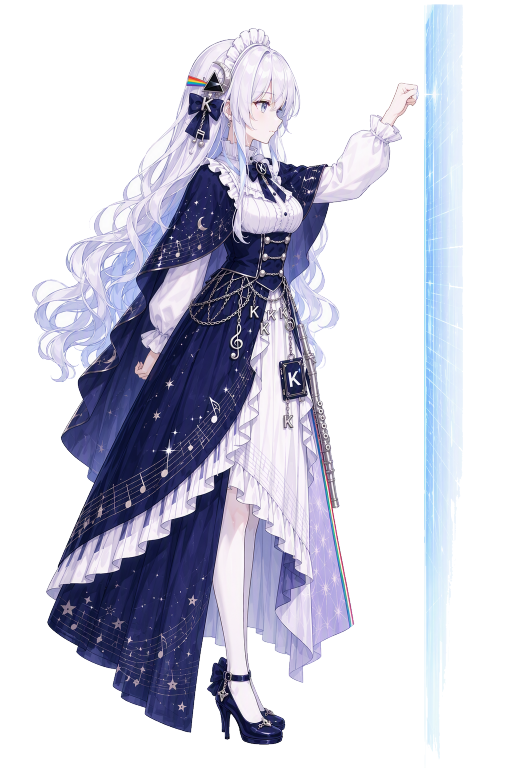
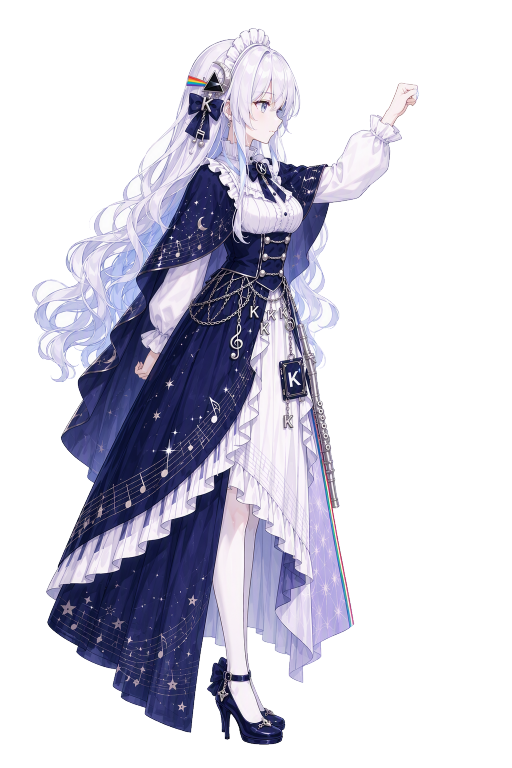
feat: 敲玻璃重做——人物与被敲玻璃分离，玻璃改独立 overlay 层
- 素材：ready.png 抹掉右侧粘着的玻璃条只留人物本体（tools/cutout_knock.js）；
  hit.png 删除（爆点与拳头粘连无法净分离，叩击改程序化表现）
- 玻璃层：#fx 独立 SVG 竖窗（窗框+半透玻璃+斜高光），叠在立绘之上、人物在玻璃后面敲；
  叩击瞬间敲击点闪光+两圈涟漪+拟声词+玻璃轻震，与 rap 相位对齐
- 收尾：enter() 统一收口，离开 knock 状态链玻璃 0.4s 淡出移除无残留
- 站位：SIDE_HALF_W 97→108（人物本体拳尖对齐窗沿）
- tools：knock_shot.js 截图 harness（左右两侧全程 9 帧验证），
  fly_shot_preload 支持 SHOT_POS 覆盖初始位置

Changed region(s): [[0.8125, 0.0, 0.9062, 0.9688]]

diff --git a/src/renderer.js b/src/renderer.js
@@ -90,11 +90,10 @@ new Image().src = SIDE_SRC;
 new Image().src = FLUTE_SRC;
 new Image().src = NOTE_SRC;
 
-// 敲门求关注真图序列：备敲（蓄力）和叩上去（咚！！爆星）。帧图朝右 = 敲左边沿；敲右边沿用 facing=dir 镜像
+// 敲门求关注：人物本体侧视图（拳头举起备敲），被敲的玻璃是独立 overlay 层（见下面 knockGlass），
+// 不再把玻璃/爆点抠进人物图。图朝右 = 敲左边沿；敲右边沿用 facing=dir 镜像
 const KNOCK_READY_SRC = '../assets/knock/ready.png';
-const KNOCK_HIT_SRC = '../assets/knock/hit.png';
 new Image().src = KNOCK_READY_SRC;
-new Image().src = KNOCK_HIT_SRC;
 
 // 指人发火：叉腰指你骂骂咧咧（正面图）
 const POINT_SRC = '../assets/point.png';
@@ -307,6 +306,8 @@ function enter(next, dur = 0) {
   if (!String(next).startsWith('desk') && !String(next).startsWith('work') && document.getElementById('desk')) resetDesk();
   // 攀爬安全绳只在 climbup 期间存在：到顶/爬不动/被拖走/菜单切动作等任何离开路径都收绳
   if (next !== 'climbup' && climb && climb.rope) { climb.rope = false; window.pet.ropeEnd(); }
+  // 敲门的玻璃层只在 knock 状态链内存在：敲完/被打断/切动作等任何离开路径都淡出收掉
+  if (!KNOCK_GLASS_STATES.has(next)) hideKnockGlass();
 }
 
 function say(text, ms = 1800) {
@@ -948,9 +949,74 @@ async function doWallBang() {
 
 // ---------- 敲门求关注 ----------
 // 跑到活跃窗口的侧边，侧身对着边沿「棒！棒！棒！」敲门，喊你理理我嘛
-// 侧身图 493x1298，显示高 512 → 显示半宽约 97px；身体在窗口内居中，左右沿 = 窗心∓97
-const SIDE_HALF_W = 97;
+// 人物图 512x768 只抠人物本体（tools/cutout_knock.js 抹掉了原图右侧粘着的玻璃条），
+// 显示高 512 → 显示宽 341；拳头右沿在图内 x≈418 → fx 坐标 278，即窗心 +108
+const SIDE_HALF_W = 108;
 let knock = null;
+
+// 被敲的玻璃：独立 SVG 层画在 #fx 里（叠在立绘之上，人物在玻璃后面敲）。
+// 竖窗立在身体贴沿一侧，敲一下：敲击点闪光 + 涟漪圈 + 玻璃轻震，节奏与 rap 相位对齐；
+// 动作结束（离开 knock 状态链）整体淡出移除，无残留
+const KNOCK_GLASS_STATES = new Set(['knockin', 'knockgo', 'knock', 'knockdone']);
+const GLASS_TOP = 100, GLASS_BOT = 616;          // 玻璃竖向范围（fx 坐标）
+const GLASS_X0 = 272, GLASS_X1 = 338;            // 右置版横向范围（左置镜像）
+const KNOCK_POINT = { x: 276, y: 188 };          // 敲击点（右置版，左置取 340-x）
+let knockGlass = null;                           // { g, inner, dir, shakeT }
+
+function knockGlassBaseTf(dir) {
+  return dir === 1 ? '' : 'translate(340,0) scale(-1,1)';
+}
+
+function showKnockGlass(dir) {
+  hideKnockGlass(true);
+  const g = fxRaw('g', { id: 'knockGlass' });
+  g.setAttribute('transform', knockGlassBaseTf(dir));
+  g.style.opacity = 0;
+  g.style.transition = 'opacity .3s ease';
+  const inner = fxRaw('g', {}, g); // 震动层：与镜像 transform 分离，抖动不破坏镜像
+  // 窗框 + 玻璃面（半透蓝，能透出后面的人）
+  fxRaw('rect', {
+    x: GLASS_X0, y: GLASS_TOP, width: GLASS_X1 - GLASS_X0, height: GLASS_BOT - GLASS_TOP,
+    rx: 8, fill: 'rgba(238,243,252,0.92)', stroke: '#b9c4da', 'stroke-width': 2,
+  }, inner);
+  fxRaw('rect', {
+    x: GLASS_X0 + 7, y: GLASS_TOP + 7, width: GLASS_X1 - GLASS_X0 - 14, height: GLASS_BOT - GLASS_TOP - 14,
+    rx: 4, fill: 'rgba(158,198,244,0.38)', stroke: 'rgba(255,255,255,0.7)', 'stroke-width': 1.5,
+  }, inner);
+  // 两道斜高光，玻璃质感
+  fxRaw('polygon', {
+    points: `${GLASS_X0 + 12},${GLASS_BOT - 20} ${GLASS_X0 + 30},${GLASS_TOP + 14} ${GLASS_X0 + 40},${GLASS_TOP + 14} ${GLASS_X0 + 22},${GLASS_BOT - 20}`,
+    fill: 'rgba(255,255,255,0.22)',
+  }, inner);
+  fxRaw('polygon', {
+    points: `${GLASS_X0 + 34},${GLASS_BOT - 20} ${GLASS_X0 + 52},${GLASS_TOP + 14} ${GLASS_X0 + 56},${GLASS_TOP + 14} ${GLASS_X0 + 38},${GLASS_BOT - 20}`,
+    fill: 'rgba(255,255,255,0.12)',
+  }, inner);
+  knockGlass = { g, inner, dir, shakeT: 0 };
+  requestAnimationFrame(() => { g.style.opacity = 1; });
+}
+
+// 叩上去的瞬间：敲击点闪光 + 两圈涟漪 + 拟声词 + 玻璃轻震（由 knock tick 驱动 shakeT 衰减）
+function fxKnockImpact() {
+  if (!knockGlass) return;
+  const x = knockGlass.dir === 1 ? KNOCK_POINT.x : LOGIC_W - KNOCK_POINT.x;
+  const y = KNOCK_POINT.y;
+  fxBurst(x, y, 10, 6, 26);
+  fxEl('circle', { cx: x, cy: y, r: 12, fill: 'none', stroke: '#fff', 'stroke-width': 3 }, 'fx-pop');
+  setTimeout(() => fxEl('circle', { cx: x, cy: y, r: 17, fill: 'none', stroke: '#cfe4ff', 'stroke-width': 2 }, 'fx-pop'), 90);
+  fxText(pick(['咚！', '咚咚！', '哐！']), x + knockGlass.dir * rand(24, 40), y - rand(26, 44), 28);
+  knockGlass.shakeT = 0.28;
+}
+
+function hideKnockGlass(immediate = false) {
+  if (!knockGlass) return;
+  const { g } = knockGlass;
+  knockGlass = null;
+  if (immediate) { g.remove(); return; }
+  g.style.transition = 'opacity .4s ease';
+  g.style.opacity = 0;
+  setTimeout(() => g.remove(), 420); // 只移除这一个旧 group，不影响之后新建的
+}
 
 async function doKnock() {
   const st = await window.pet.getStage();
@@ -958,8 +1024,8 @@ async function doKnock() {
   const aw = await window.pet.activeWindow();
   let tx, dir;
   if (aw) {
-    // 贴的是「身体边缘」不是窗口框：侧身图显示半宽约 97px，居中在窗口里，
-    // 身体左沿 = 窗心-97，右沿 = 窗心+97；让贴墙一侧的身体边和窗口边重合（再多吃 4px 像真贴上）
+    // 贴的是「身体边缘」不是窗口框：人物图显示半宽（到拳尖）约 108px，居中在窗口里，
+    // 身体左沿 = 窗心-108，右沿 = 窗心+108；让贴墙一侧的身体边和窗口边重合（再多吃 4px 像真贴上）
     const cx = winW() / 2;
     const leftTx = aw.x - (cx + SIDE_HALF_W * sizeK) + 4;          // 敲窗口左沿：她站左边，身体右边贴上
     const rightTx = aw.x + aw.w - (cx - SIDE_HALF_W * sizeK) - 4;  // 敲窗口右沿：她站右边，身体左边贴上
@@ -3212,9 +3278,11 @@ function frame(now) {
         window.pet.moveBy(dx, dy);
         knock.px = knock.tx; knock.py = knock.ty;
         knock.phase = 'aim'; knock.phaseT = 0;
-        // 到位：换上备敲真图（朝右 = 敲左边沿；右边沿镜像），朝向 = 敲的方向
+        // 到位：换上备敲真图（朝右 = 敲左边沿；右边沿镜像），朝向 = 敲的方向；
+        // 玻璃层贴敲击一侧立起来（独立 overlay，不抠在人物图上）
         swapSprite(KNOCK_READY_SRC);
         facing = knock.dir;
+        showKnockGlass(knock.dir);
         enter('knock');
       } else {
         const mx = dx / dist * step, my = dy / dist * step;
@@ -3226,17 +3294,27 @@ function frame(now) {
       break;
     }
     case 'knock': {
-      // 敲门循环：抬手后仰 → 叩上去（棒！+ 星光 + 小幅震）→ 收回，三声收工
+      // 敲门循环：后仰蓄力 → 叩上去（玻璃层闪光+涟漪+轻震，节奏对齐）→ 收回，三声收工
       knock.phaseT += dt;
       const d = knock.dir; // 朝窗口的方向
+      // 玻璃轻震衰减：fxKnockImpact 把 shakeT 置满，这里逐帧抖完复位
+      if (knockGlass && knockGlass.shakeT > 0) {
+        knockGlass.shakeT = Math.max(0, knockGlass.shakeT - dt);
+        const k = knockGlass.shakeT / 0.28;
+        knockGlass.inner.setAttribute('transform', k > 0
+          ? `translate(${Math.sin(knockGlass.shakeT * 90) * 2.2 * k},${Math.cos(knockGlass.shakeT * 70) * 1.4 * k})`
+          : '');
+      }
       if (knock.phase === 'aim') {
-        // 抬手蓄力：微微后仰抬手
-        rot = -d * 10 * Math.min(knock.phaseT / 0.22, 1);
-        if (knock.phaseT >= 0.22) { knock.phase = 'rap'; knock.phaseT = 0; }
+        // 抬手蓄力：微微后仰
+        rot = -d * 6 * Math.min(knock.phaseT / 0.22, 1);
+        if (knock.phaseT >= 0.22) {
+          knock.phase = 'rap'; knock.phaseT = 0;
+          fxKnockImpact(); // 叩上的一瞬间：敲击点闪光 + 涟漪 + 拟声词 + 玻璃轻震
+        }
       } else if (knock.phase === 'rap') {
-        // 叩上去：换「咚！！」真图，前倾 + 轻轻顶一下，像真磕在边上
-        rot = d * 12;
-        swapSprite(KNOCK_HIT_SRC);
+        // 叩上去：前倾压向玻璃，像真磕在边上
+        rot = d * 5;
         if (knock.phaseT >= 0.16) {
           knock.phase = 'recoil'; knock.phaseT = 0;
           knock.count++;
@@ -3244,9 +3322,8 @@ function frame(now) {
           if (knock.count === 2) say(pick(LINES.knock), 1500);
         }
       } else if (knock.phase === 'recoil') {
-        // 收回来（切回备敲图），缓一下敲下一声
-        rot = d * 4 * (1 - knock.phaseT / 0.34);
-        swapSprite(KNOCK_READY_SRC);
+        // 收回来，缓一下敲下一声
+        rot = d * 2 * (1 - knock.phaseT / 0.34);
         if (knock.phaseT >= 0.34) {
           knock.phase = 'aim'; knock.phaseT = 0;
           if (knock.count >= knock.maxCount) enter('knockdone', 1.4);

diff --git a/tools/knock_shot.js b/tools/knock_shot.js
@@ -1,0 +1,42 @@
+// 敲门截图 harness：桩 preload + 真实 renderer，定时捕捉敲玻璃全程
+// （玻璃独立 overlay 层、人物图上不粘玻璃、收尾淡出无残留）。
+// 用法：node_modules/.bin/electron tools/knock_shot.js [outPrefix]
+//   SHOT_POS='[1100,500]' 让她敲右侧（玻璃镜像到左边），默认 '[100,500]' 敲左侧
+const { app, BrowserWindow } = require('electron');
+const path = require('path');
+const fs = require('fs');
+
+// 独立 profile 目录：避免与残留 shot 实例抢默认 user-data 锁导致启动挂死
+app.setPath('userData', require('os').tmpdir() + `/knockshot-${process.pid}`);
+
+const out = process.argv[2] || 'shots/knock';
+fs.mkdirSync(path.dirname(out), { recursive: true });
+// 时间轴（触发后毫秒）：knockin 0.3s + knockgo ~0.36s → 0.66s 起 knock 循环
+// （aim 0.22 / rap 0.16 / recoil 0.34）×3 → 2.82s knockdone 1.4s → 4.22s 回家玻璃淡出
+const SHOT_AT = [700, 1000, 1150, 1600, 1900, 2600, 3400, 4600, 5600];
+
+setTimeout(() => { console.error('watchdog: timeout, abort'); app.exit(2); }, 90000);
+
+app.whenReady().then(async () => {
+  const win = new BrowserWindow({
+    width: 460, height: 764, show: false, frame: false, transparent: true,
+    webPreferences: { preload: path.join(__dirname, 'fly_shot_preload.js'), contextIsolation: true },
+  });
+  win.webContents.on('console-message', (_e, _l, msg) => console.log('[page]', msg.slice(0, 160)));
+  // 深色桌面底色方便看透明窗内容
+  await win.loadFile(path.join(__dirname, '..', 'src', 'fly_shot.html'));
+  console.log('[loaded]');
+  const sleep = (ms) => new Promise((r) => setTimeout(r, ms));
+  await sleep(1500);
+  await win.webContents.executeJavaScript('DISPATCH.knock()').catch((e) => console.log('[trigger-error]', String(e).slice(0, 200)));
+  console.log('[triggered]');
+  const t0 = Date.now();
+  for (const at of SHOT_AT) {
+    const wait = at - (Date.now() - t0);
+    if (wait > 0) await sleep(wait);
+    const img = await win.capturePage();
+    fs.writeFileSync(`${out}_${at}ms.png`, img.toPNG());
+    console.log('[shot]', at);
+  }
+  app.quit();
+});

diff --git a/tools/cutout_knock.js b/tools/cutout_knock.js
@@ -1,0 +1,24 @@
+// 敲门素材抠图：把 ready.png 里粘在人物右侧的玻璃条（x≥420 的半透明竖条）抹掉，
+// 只留人物本体——玻璃改由 renderer 的 overlay SVG 层独立渲染（见 src/renderer.js 敲门求关注）。
+// 拳头右沿（x≈418）与玻璃（x≥424）之间本来就有 2~4px 全透明缝，硬切即净，无需洪水/色距。
+// 用法: node tools/cutout_knock.js <src.png> <dst.png> [cutX=420]
+const fs = require('fs');
+const { PNG } = require('pngjs');
+
+const [src, dst, cutX = 420] = process.argv.slice(2);
+if (!src || !dst) { console.error('usage: node tools/cutout_knock.js <src> <dst> [cutX=420]'); process.exit(1); }
+
+const png = PNG.sync.read(fs.readFileSync(src));
+const { width: W, height: H, data } = png;
+const cut = Number(cutX);
+
+let erased = 0;
+for (let y = 0; y < H; y++) {
+  for (let x = cut; x < W; x++) {
+    const i = (y * W + x) * 4;
+    if (data[i + 3] !== 0) erased++;
+    data[i + 3] = 0;
+  }
+}
+fs.writeFileSync(dst, PNG.sync.write(png));
+console.log(`cut x>=${cut}: erased ${erased} px -> ${dst}`);

diff --git a/tools/fly_shot_preload.js b/tools/fly_shot_preload.js
@@ -6,7 +6,8 @@ const pObj = (v) => () => Promise.resolve(v);
 
 contextBridge.exposeInMainWorld('pet', {
   getStage: pObj({ minX: 0, maxX: 1200, minY: 0, floorY: 600 }),
-  getPos: pObj([100, 500]),
+  // SHOT_POS 可覆盖初始位置（如 '[1100,500]' 让她去右侧敲），默认左边
+  getPos: pObj(process.env.SHOT_POS ? JSON.parse(process.env.SHOT_POS) : [100, 500]),
   moveBy: noop,
   getCursor: pObj([600, 400]),
   activeWindow: pObj(null),
